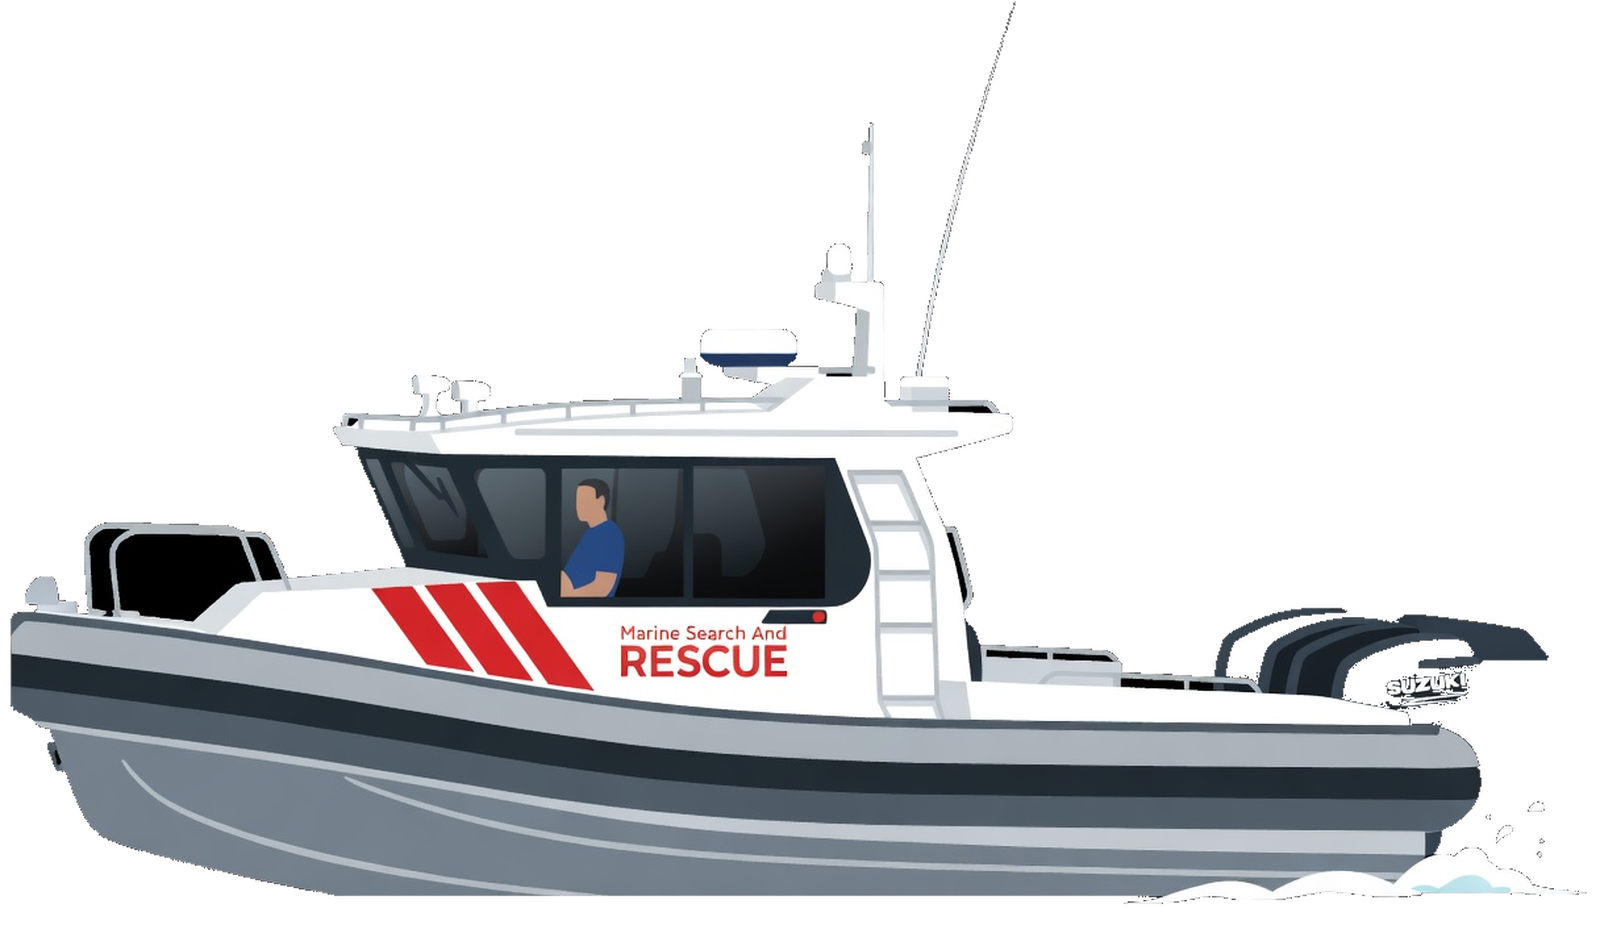
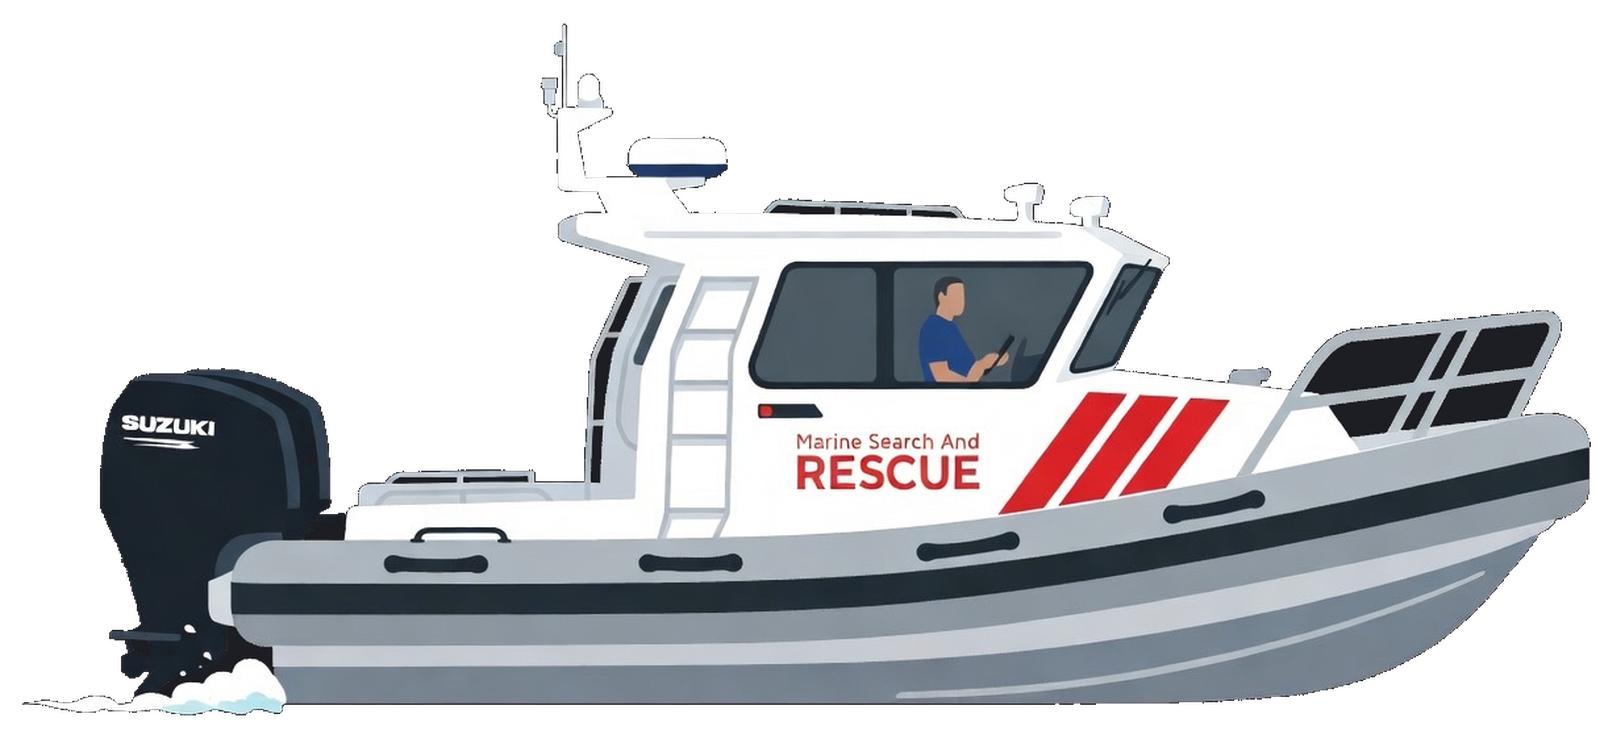
Fix hero boat motors, bow rails, and mirrored RESCUE text
Right-facing asset so lettering reads correctly; solid charcoal
motors; complete bow grab rails; remove CSS horizontal flip.

diff --git a/styles.css b/styles.css
@@ -288,25 +288,24 @@ h1, h2, h3, h4 {
   width: 100%;
   height: auto;
   display: block;
-  /* Face right so cruise direction feels natural */
-  transform: scaleX(-1);
+  /* Asset already faces right — do not mirror (would reverse RESCUE text) */
   user-select: none;
   -webkit-user-drag: none;
 }
 
-/* Wake / spray at stern (left of hull after flip) */
+/* Wake / spray at stern (left side — boat faces right) */
 .boat-wake {
   position: absolute;
-  left: -8%;
+  left: -6%;
   bottom: 8%;
-  width: 38%;
-  height: 30%;
+  width: 32%;
+  height: 28%;
   border-radius: 50%;
   background:
-    radial-gradient(ellipse at 20% 50%, rgba(255, 255, 255, 0.5) 0%, rgba(180, 230, 255, 0.22) 35%, transparent 70%);
+    radial-gradient(ellipse at 25% 50%, rgba(255, 255, 255, 0.45) 0%, rgba(180, 230, 255, 0.2) 40%, transparent 70%);
   filter: blur(4px);
   animation: wake-pulse 1.4s ease-in-out infinite;
-  opacity: 0.85;
+  opacity: 0.75;
   transform-origin: left center;
   z-index: 0;
 }
@@ -314,9 +313,9 @@ h1, h2, h3, h4 {
 .boat-wake::after {
   content: "";
   position: absolute;
-  inset: 10% 15% 10% -15%;
+  inset: 10% 20% 10% -10%;
   border-radius: 50%;
-  background: radial-gradient(ellipse at left, rgba(255, 255, 255, 0.35) 0%, transparent 65%);
+  background: radial-gradient(ellipse at left, rgba(255, 255, 255, 0.3) 0%, transparent 65%);
   animation: wake-pulse 1.1s ease-in-out infinite reverse;
 }
 

diff --git a/index.html b/index.html
@@ -24,7 +24,7 @@
   <link rel="preconnect" href="https://fonts.gstatic.com" crossorigin>
   <link href="https://fonts.googleapis.com/css2?family=Outfit:wght@500;600;700;800&family=Source+Sans+3:wght@400;500;600;700&display=swap" rel="stylesheet">
   <link rel="stylesheet" href="https://cdnjs.cloudflare.com/ajax/libs/font-awesome/6.5.2/css/all.min.css">
-  <link rel="stylesheet" href="styles.css?v=4">
+  <link rel="stylesheet" href="styles.css?v=5">
 </head>
 <body class="dark">
 
@@ -92,10 +92,10 @@
         <div class="boat-bob">
           <div class="boat-wake"></div>
           <img
-            src="images/Naiad-1.png?v=4"
+            src="images/Naiad-1.png?v=5"
             alt="Marine search and rescue vessel underway"
             width="1600"
-            height="925"
+            height="739"
             decoding="async"
             fetchpriority="high"
           >
@@ -500,6 +500,6 @@
     </div>
   </div>
 
-  <script src="main.js?v=4"></script>
+  <script src="main.js?v=5"></script>
 </body>
 </html>